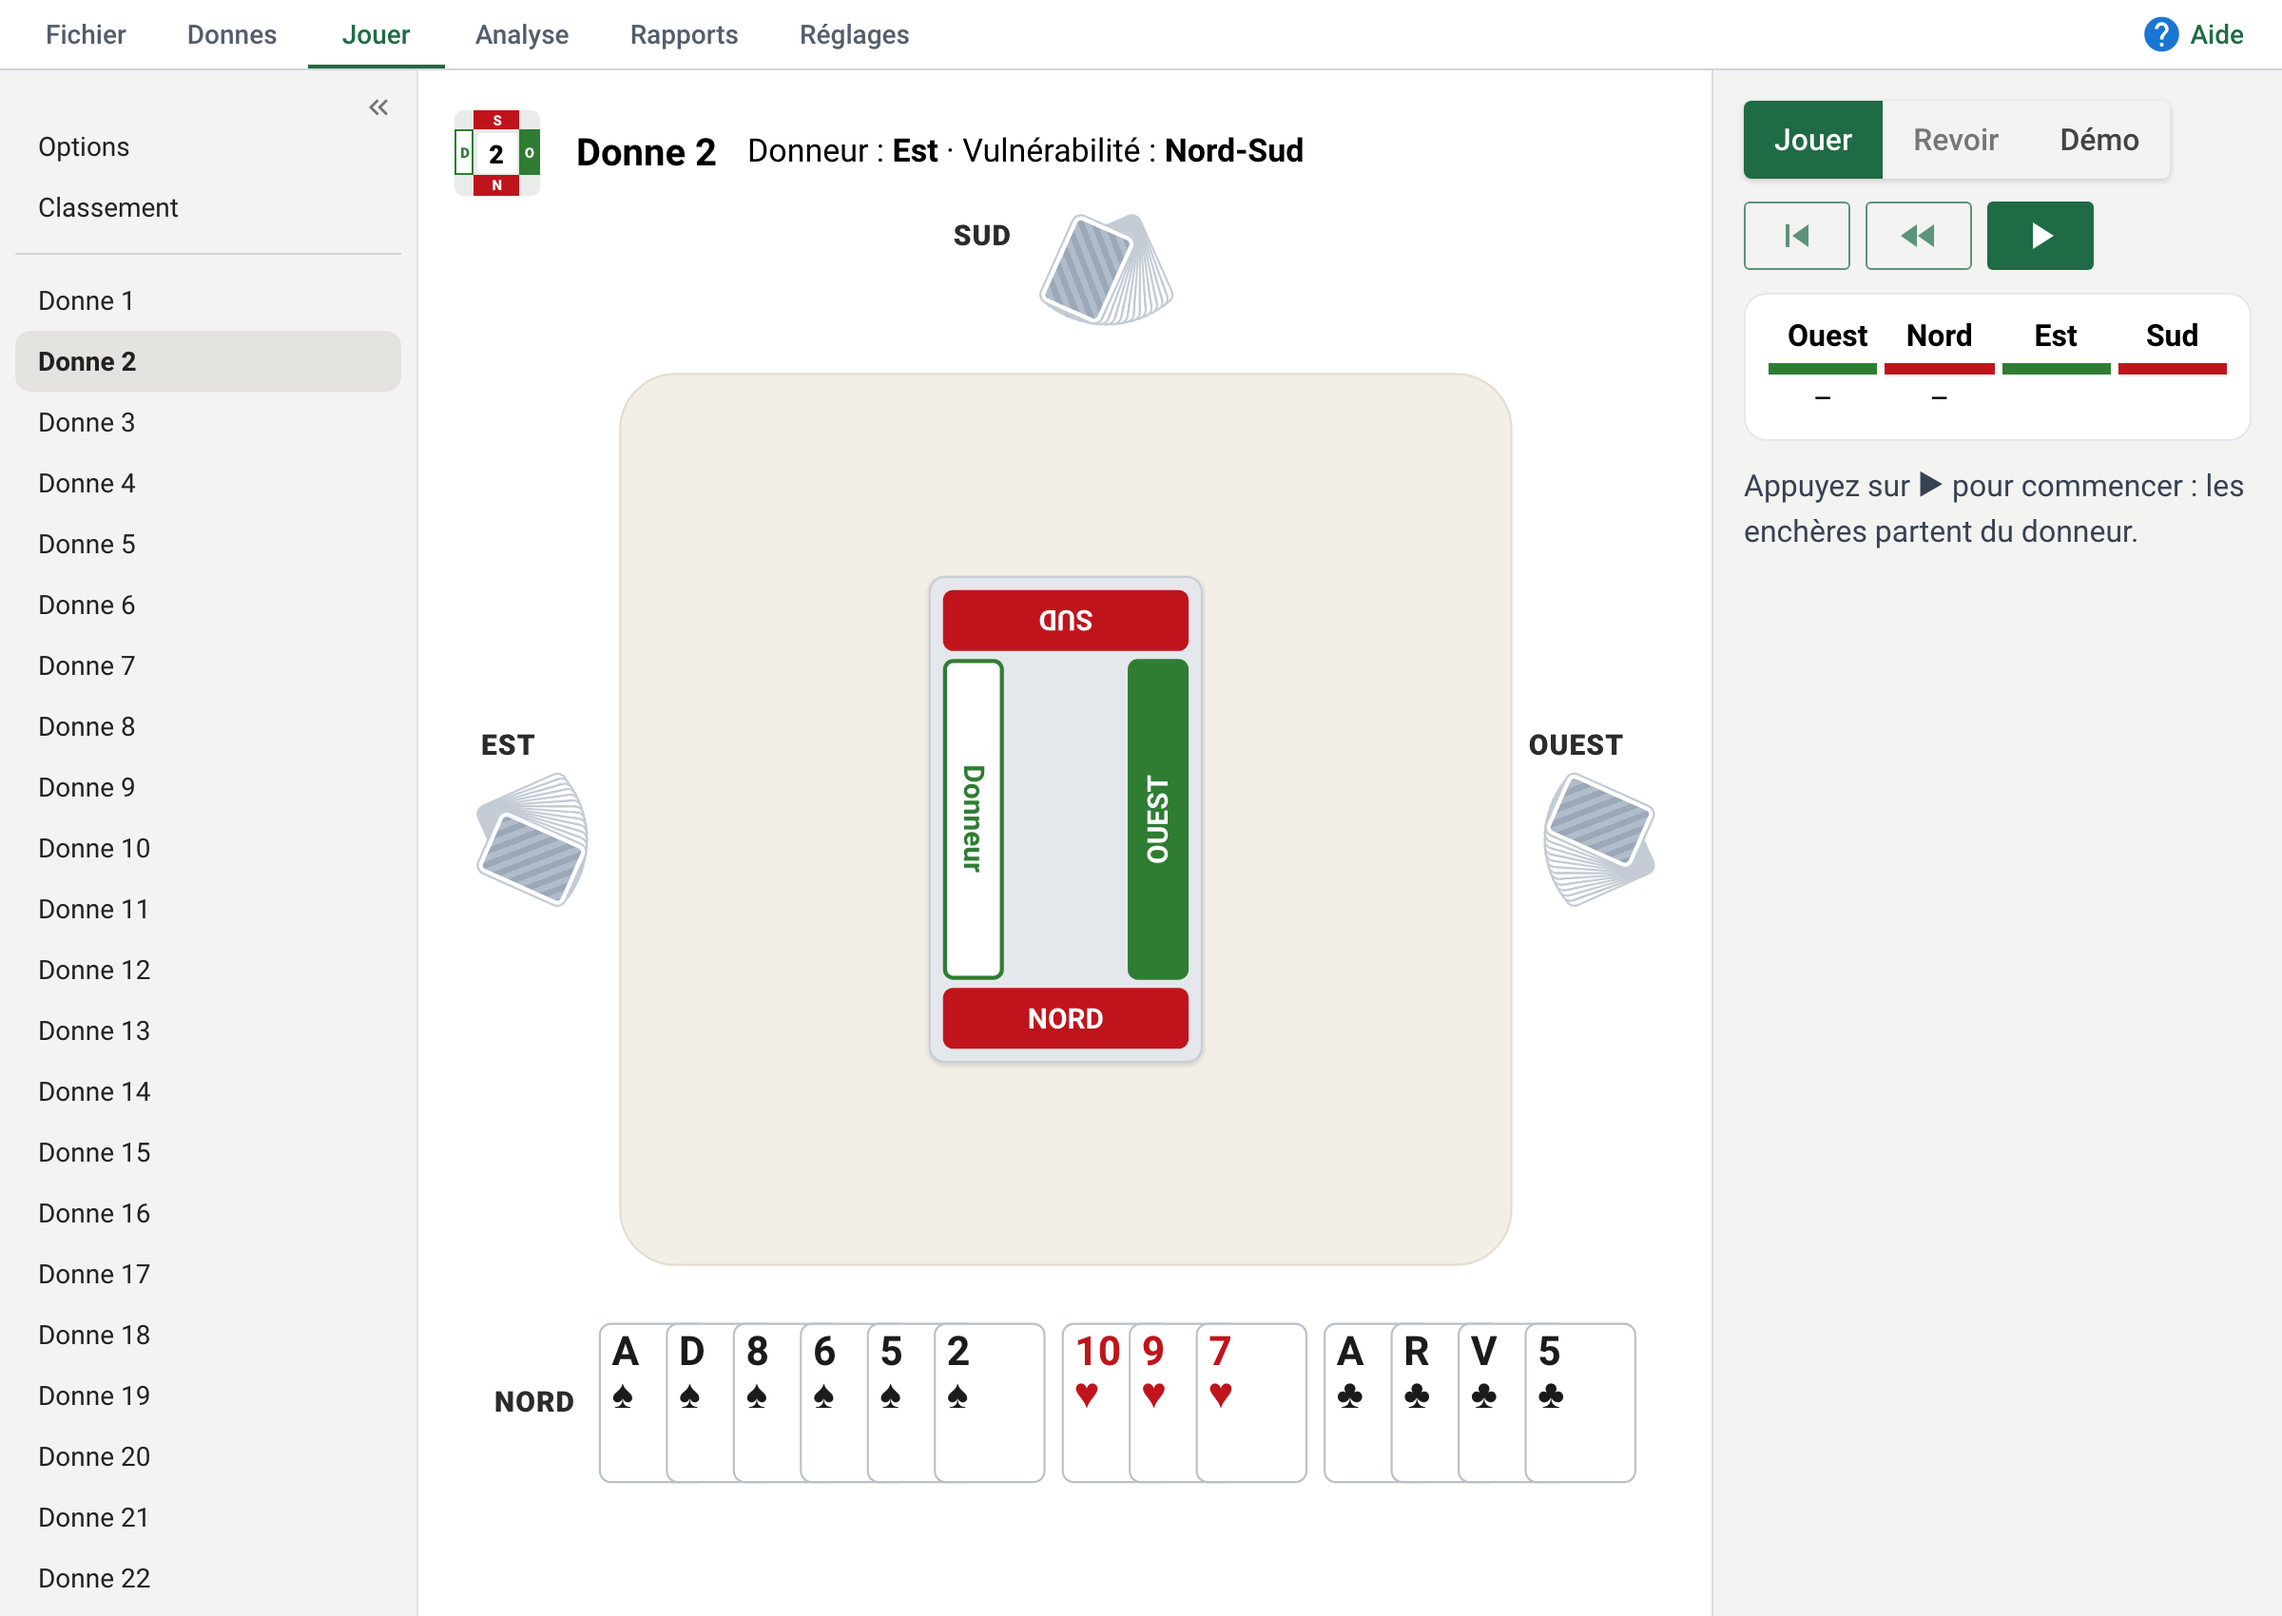
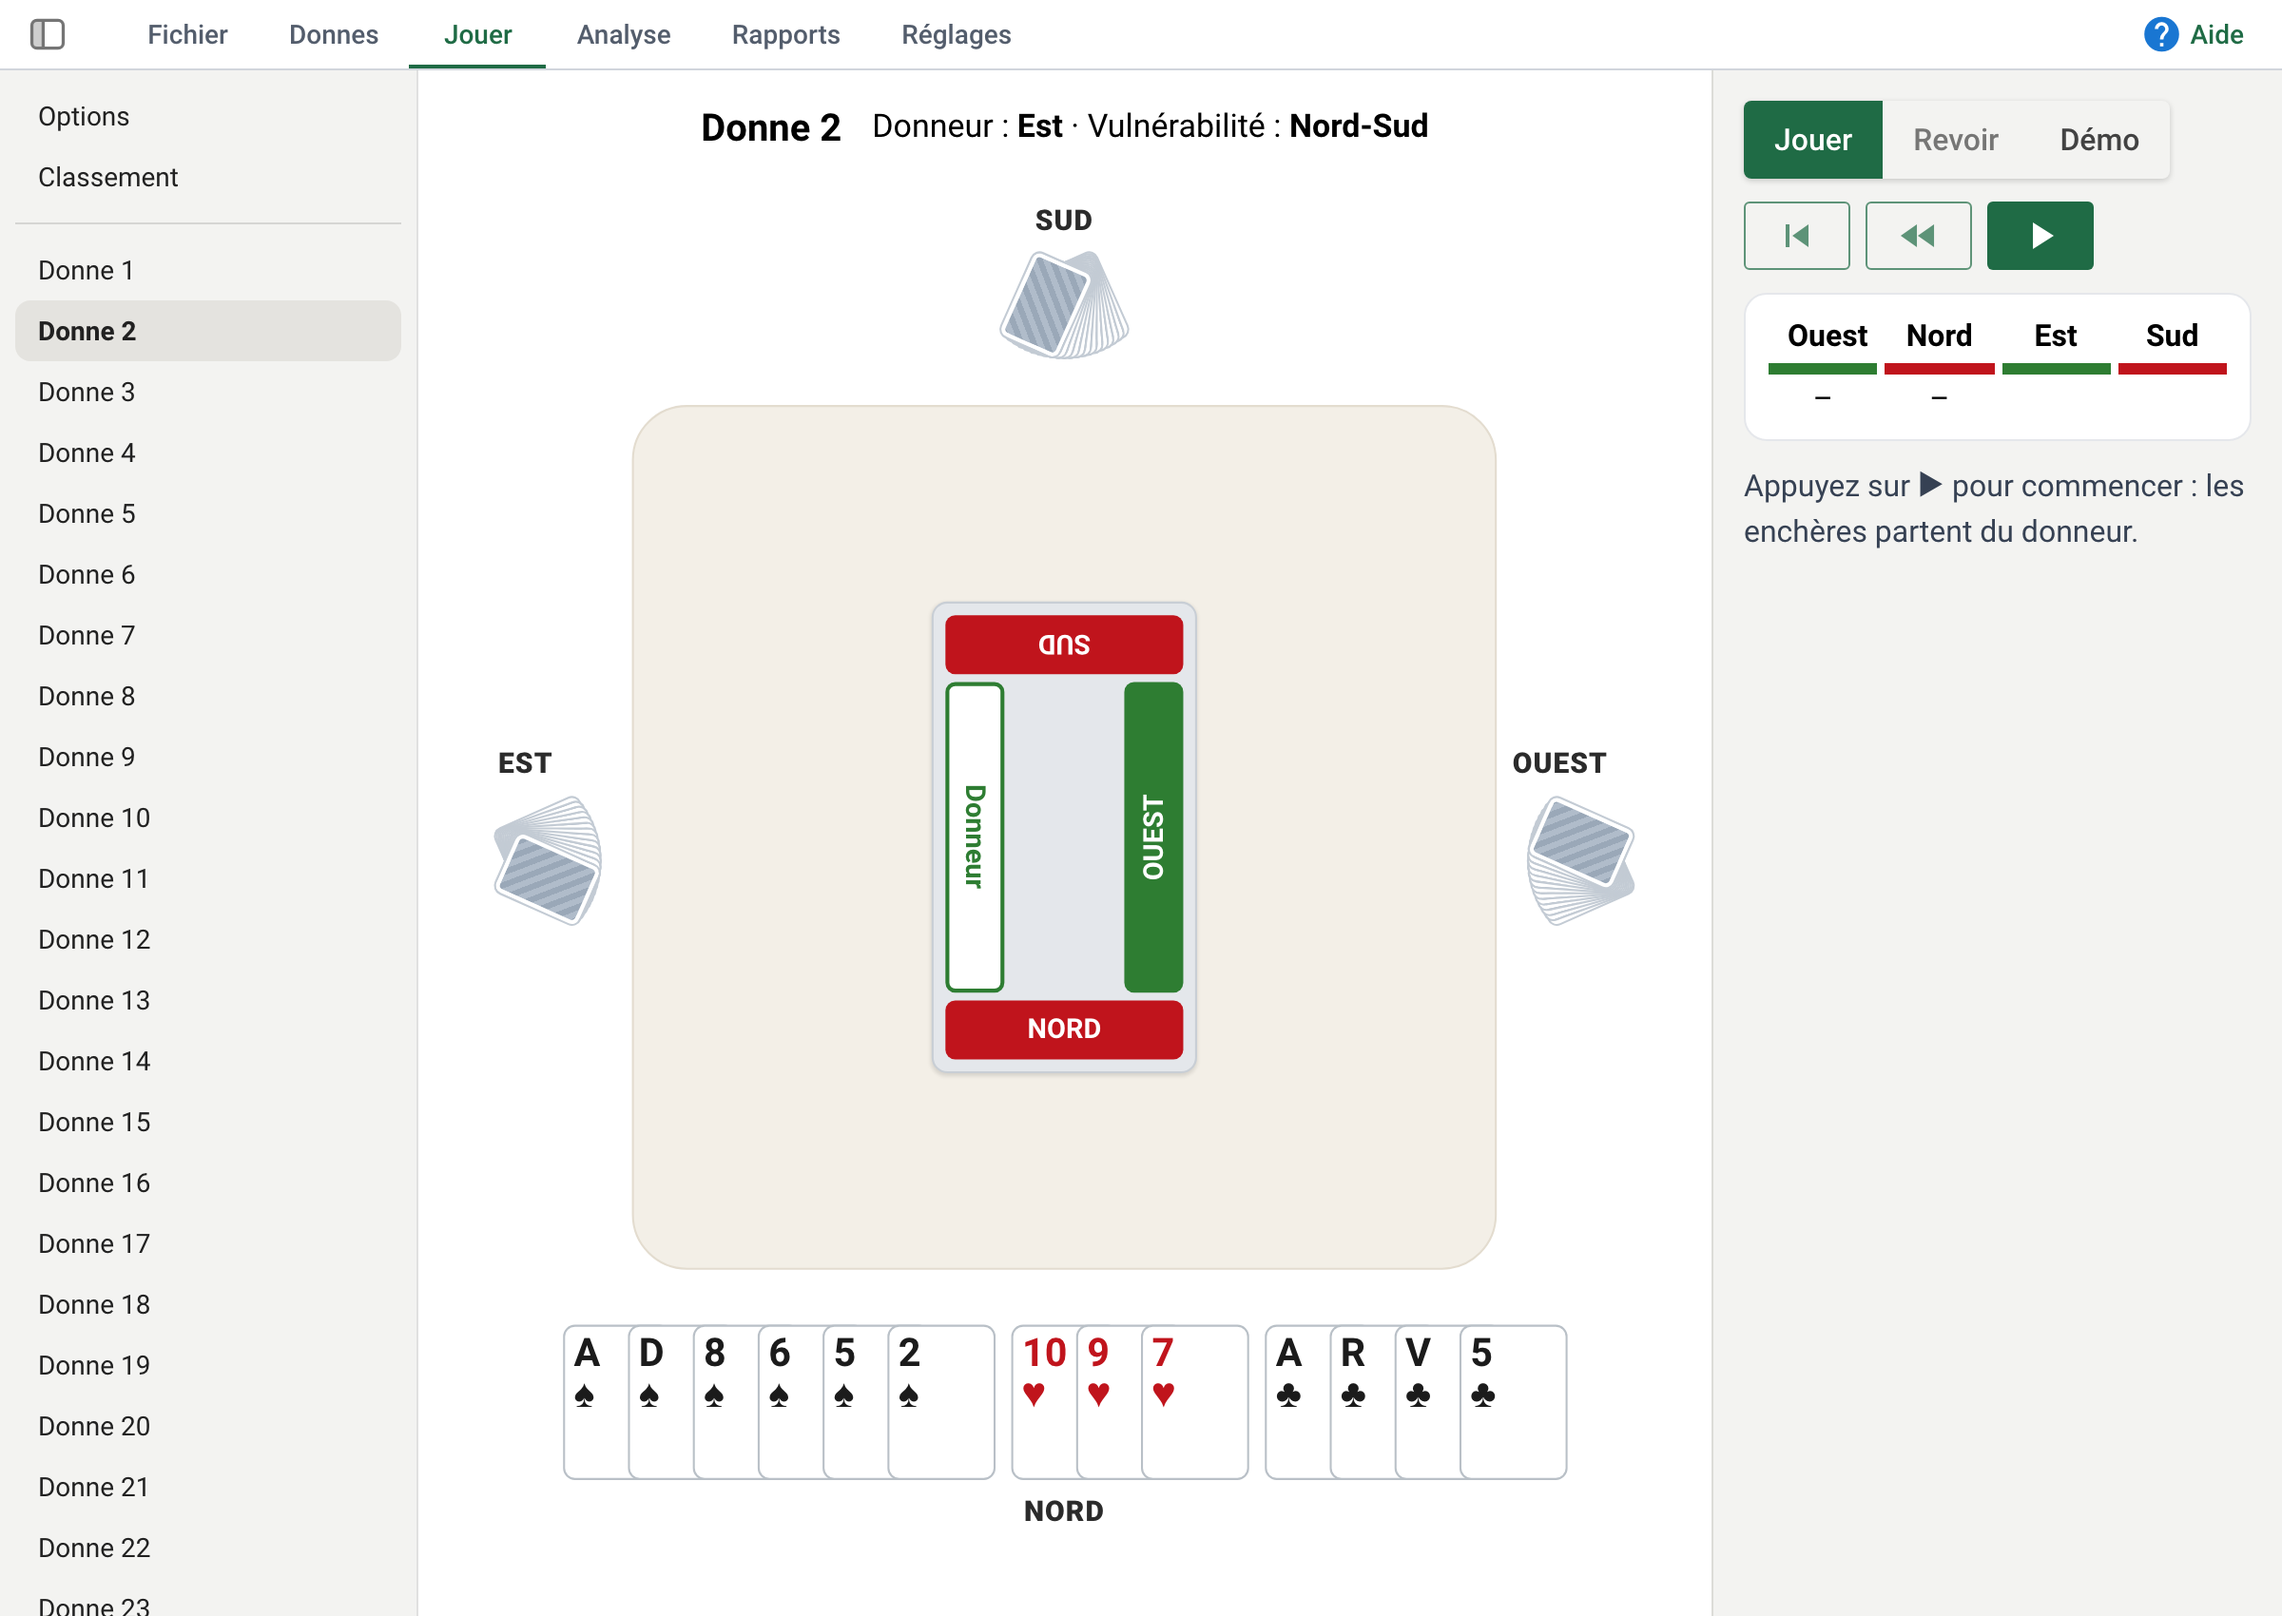
Quoi de neuf 1.13.0; Jouer and Démo help screenshots redone

diff --git a/help/nouveautes.html b/help/nouveautes.html
@@ -3,6 +3,15 @@
      récentes que la dernière version vue (« Quoi de neuf », app.nouveautes) ; Réglages, Mise à jour et nouveautés, les
      montre toutes (« Toutes les nouveautés »). À compléter avant chaque ./publier.sh. -->
 
+<section data-version="1.13.0" data-date="2026-11-14">
+<ul>
+  <li><b>Jouer</b> : le joueur qui doit enchérir ou jouer a sa position et son nom sur fond jaune ; seules vos cartes s'éclairent quand c'est à vous. Les mains du haut et du bas restent centrées, la ligne de la donne est centrée au-dessus de la table, et le nombre de plis monte d'un cran une fois les cartes arrivées chez le gagnant.</li>
+  <li><b>Démo</b> : un clic sur ▶ joue votre carte (ou celle du partenaire) et la carte de l'adversaire qui suit.</li>
+  <li><b>Signaux</b> : les robots en défense suivent des règles simples (le mort garde la carte maîtresse ou va couper : demander de changer) et ne demandent de continuer que quand c'est vraiment le meilleur. L'Indice explique chaque signal comme un professeur : quel genre de signal, ce qu'il demande et pourquoi.</li>
+  <li><b>Enchères</b> : en réveil après que les adversaires s'arrêtent à SA, le coach n'emprunte plus de points au partenaire. Sur un saut à 3 sur notre ouverture mineure, avec 13 H et une majeure quatrième, il contre d'abord.</li>
+</ul>
+</section>
+
 <section data-version="1.12.1" data-date="2026-11-13">
 <ul>
   <li>Le bouton de la barre de gauche a une nouvelle icône : un panneau latéral, plein quand la barre est montrée.</li>
